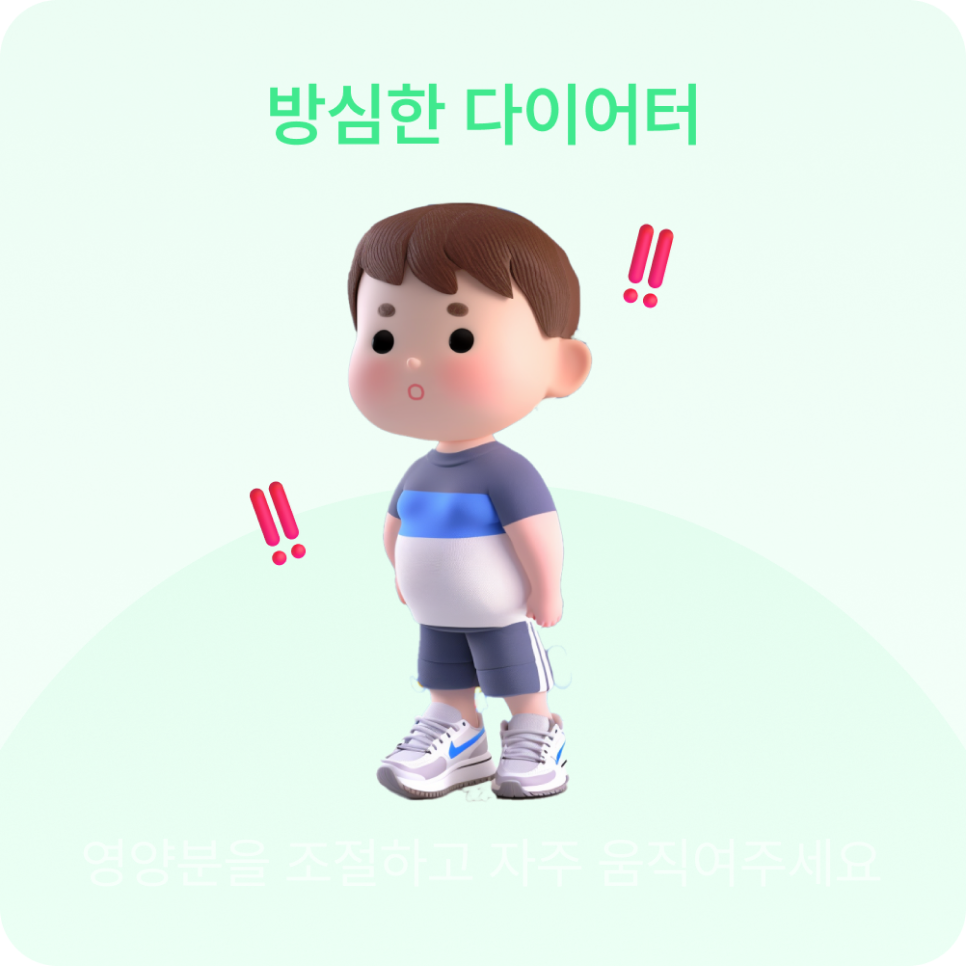
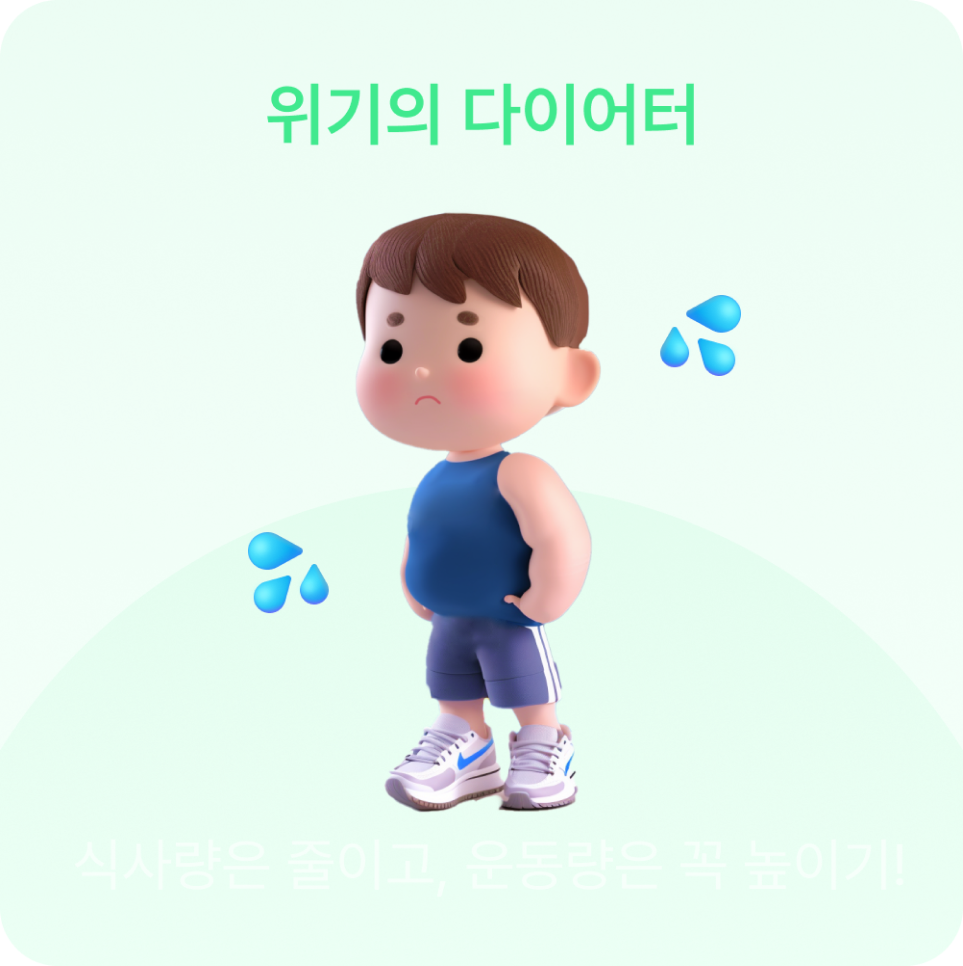
fix : rerendering issue

diff --git a/component/section/DietStateSection.tsx b/component/section/DietStateSection.tsx
@@ -9,7 +9,7 @@ import {
   VStack,
 } from "@chakra-ui/react";
 import Image from "next/image";
-import React, { useEffect, useLayoutEffect, useState } from "react";
+import React, { useEffect, useState } from "react";
 import mainStage1 from "../../utils/img/mainStage1.png";
 import mainStage2 from "../../utils/img/mainStage2.png";
 import mainStage3 from "../../utils/img/mainStage3.png";
@@ -17,12 +17,12 @@ import mainStage4 from "../../utils/img/mainStage4.png";
 import mainStage5 from "../../utils/img/mainStage5.png";
 import { useRouter } from "next/navigation";
 import { DietResponse } from "../../utils/api/AxiosSetting";
-import { userInfo } from "os";
 
 const DietStateSection = (isLoading: { isLoading: boolean }) => {
   const [dietResponseData, setDietResponseData] = useState<
     DietResponse | undefined
   >();
+
   useEffect(() => {
     let userInfo: any = localStorage.getItem("userDiet");
     if (userInfo) {
@@ -35,7 +35,7 @@ const DietStateSection = (isLoading: { isLoading: boolean }) => {
     stage1: ["열정가득 다이어터", mainStage1],
     stage2: ["기세등등 유지어터", mainStage2],
     stage3: ["휴식중인 유지어터", mainStage3],
-    stage4: ["방신한 다이어터", mainStage4],
+    stage4: ["방심한 다이어터", mainStage4],
     stage5: ["위기의 다이어터", mainStage5],
   };
 

diff --git a/component/card/ChattingRoom.tsx b/component/card/ChattingRoom.tsx
@@ -110,13 +110,21 @@ const ChattingRoom = ({
             <>
               <ChattingMsgCard>
                 <HStack spacing={"5px"}>
-                  <RunningIcon />
-                  <Text>
-                    <Text as="a" color={"#00C27C"} fontWeight={"semibold"}>
-                      {dietResponseData.운동필요시간}
-                    </Text>
-                    이상 꼭 하셔야해요.
-                  </Text>
+                  {!dietResponseData.운동필요시간.includes("안 해도") ? (
+                    <>
+                      <RunningIcon />
+                      <Text as="a" color={"#00C27C"} fontWeight={"semibold"}>
+                        {dietResponseData.운동필요시간}
+                      </Text>
+                      이상 꼭 하셔야해요.
+                    </>
+                  ) : (
+                    <>
+                      <Text as="a" color={"#00C27C"} fontWeight={"semibold"}>
+                        {dietResponseData.운동필요시간}
+                      </Text>
+                    </>
+                  )}
                 </HStack>
               </ChattingMsgCard>
               <ChattingMsgCard>{dietResponseData.잔소리}</ChattingMsgCard>

diff --git a/src/app/main/page.tsx b/src/app/main/page.tsx
@@ -14,7 +14,6 @@ import { usePostUserDiet } from "../../../utils/hooks/usePostUserDiet";
 import { SubmitHandler, useForm } from "react-hook-form";
 import { useEffect, useState } from "react";
 import { UserInfoType } from "../../../component/template/SignupTemplate";
-import { DietResponse } from "../../../utils/api/AxiosSetting";
 
 export interface UserPostDietData extends UserInfoType {
   query: string;
@@ -42,7 +41,7 @@ const Page = () => {
   useEffect(() => {
     let userDietData: any = localStorage.getItem("userDiet");
     setUserDiet(userDietData);
-  }, [userDiet]);
+  }, [isLoading]);
 
   const onSubmit: SubmitHandler<DietMsgType> = async (data) => {
     reset();

diff --git a/component/card/CharacterImgCard.tsx b/component/card/CharacterImgCard.tsx
@@ -1,4 +1,3 @@
-import { Box } from "@chakra-ui/react";
 import Image from "next/image";
 import React from "react";
 import stage1 from "../../utils/img/stage1.png";
